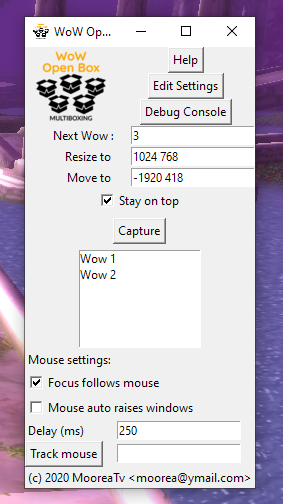
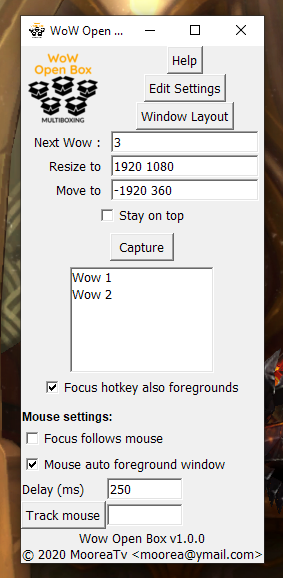
added follow mouse and updated sshot

diff --git a/help.md b/help.md
@@ -30,6 +30,8 @@ Note that to change the delay you need to hit the Return key
 
 There is a "Track Mouse" (and stop tracking) button (and hotkey, default `Ctrl-Shift-M`) to track coordinates to help doing pixel perfect placement of your windows
 
+You can toggle the focus follow mouse behavior using a hotkey (default `Ctrl-Shift-F`)
+
 ## Need more help? Report a problem? Suggest a new feature?
 
 Make sure you are running the latest [release](https://github.com/WowOpenBox/WowOpenBox/releases)
